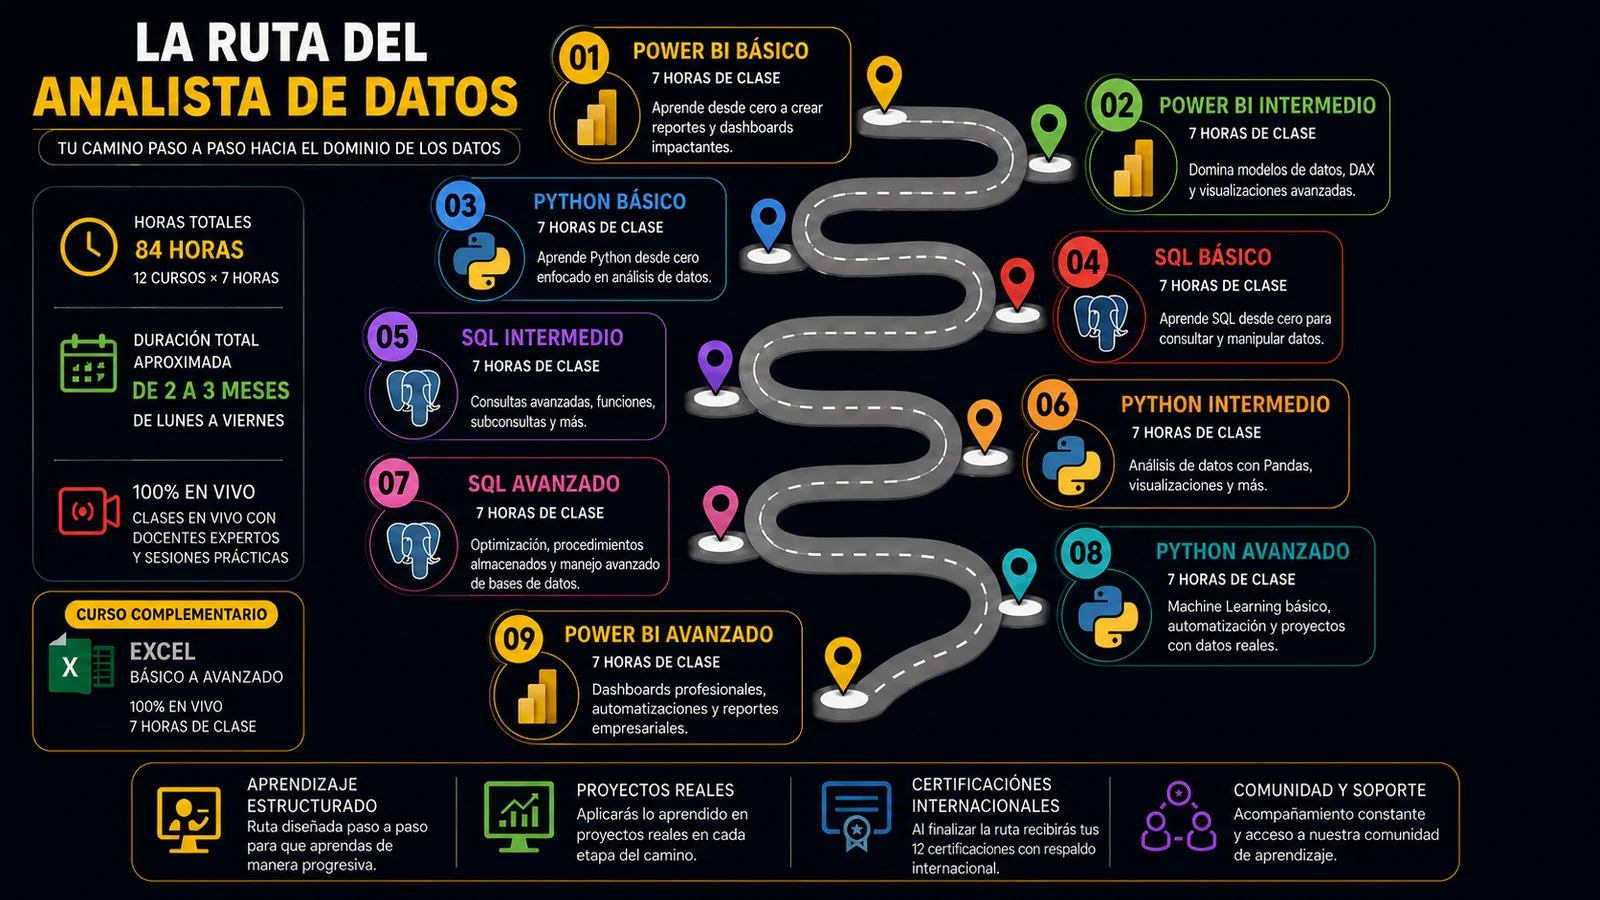
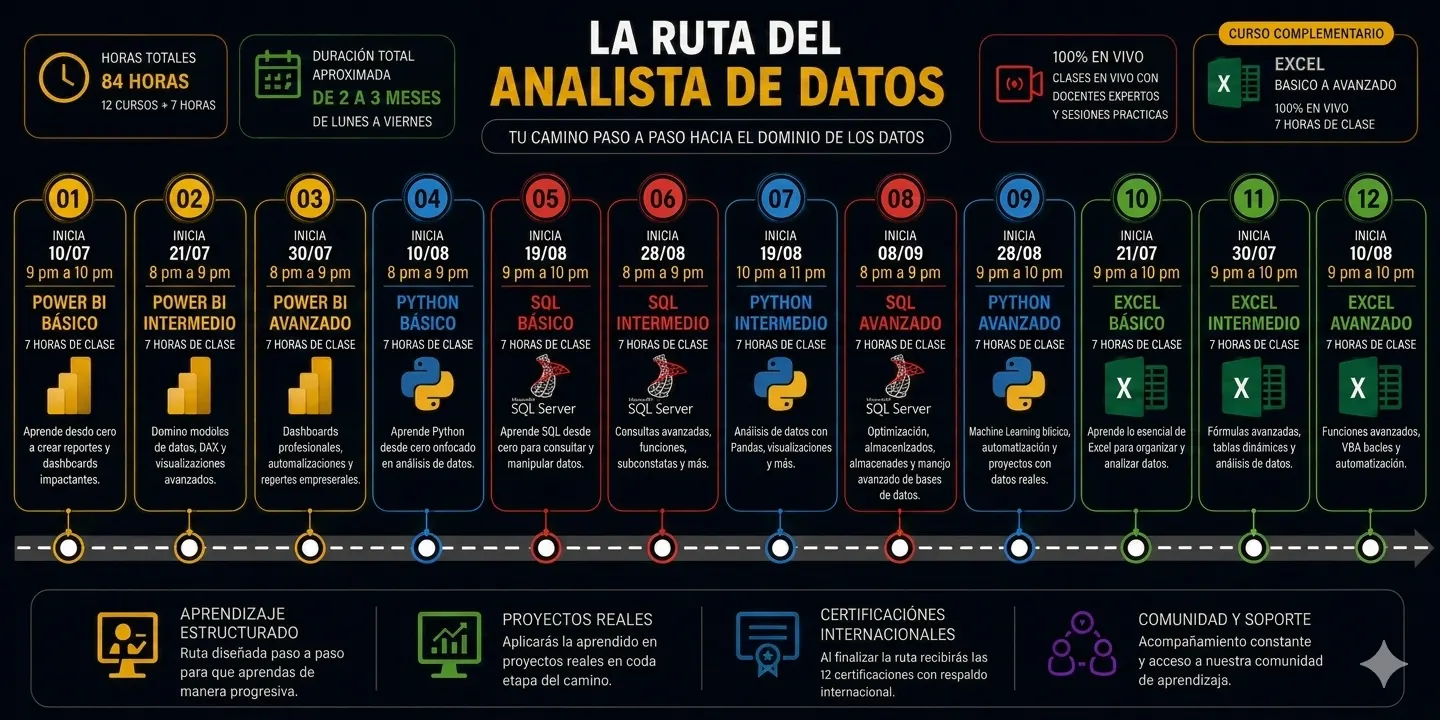
feat: actualiza imagen ruta completa a versión v2
Reemplaza public/assets/ruta_completa.webp con la nueva infografía
(ruta_completa_v2.webp) que refleja las fechas de inicio actualizadas
para los 12 cursos de la ruta del analista de datos.

diff --git a/CHANGELOG.md b/CHANGELOG.md
@@ -5,6 +5,13 @@ El formato está basado en [Keep a Changelog](https://keepachangelog.com/es/1.0.
 
 ---
 
+## [1.8] - 2026-06-22
+
+### Actualizado
+- Imagen de la ruta completa (`public/assets/ruta_completa.webp`) reemplazada por la versión v2 con los 12 cursos y fechas de inicio actualizadas
+
+---
+
 ## [1.7] - 2026-06-16
 
 ### Cambiado